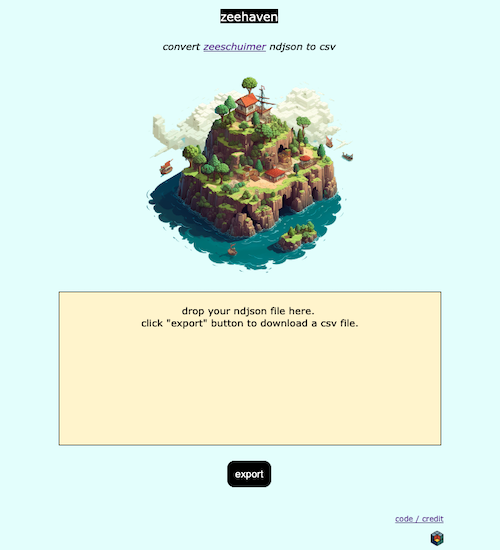
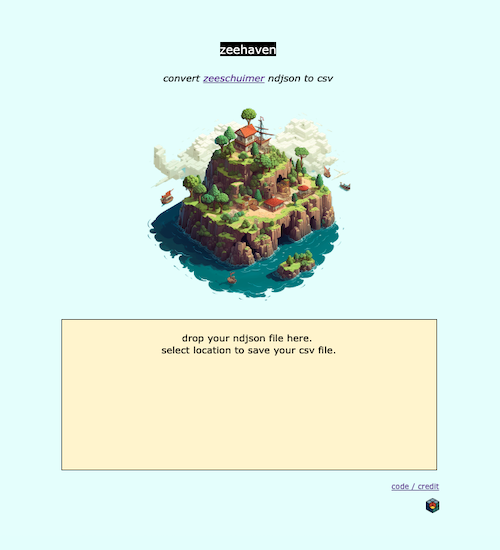
updated interface and screenshot

Changed region(s): [[0.09, 0.0, 0.9, 1.0]]

diff --git a/index.html b/index.html
@@ -91,12 +91,11 @@ function downloadCSV(filename, data) {
      ondrop="event.stopPropagation(); event.preventDefault();
      dodrop(event);">
 drop your ndjson file here. 
-click "export" button to download a csv file.
+select location to save your csv file.
 </div>
 
-<div class="buttonhouse">
-<button class="beautifulbutton" onclick="downloadCSV('test.csv')">export</button>
-<div id="csv"></div></div>
+
+<div id="csv"></div>
 
 <footer class="credits">
     <p><a href="https://github.com/PublicDataLab/zeehaven" target="_blank">code / credit</a></p> 
